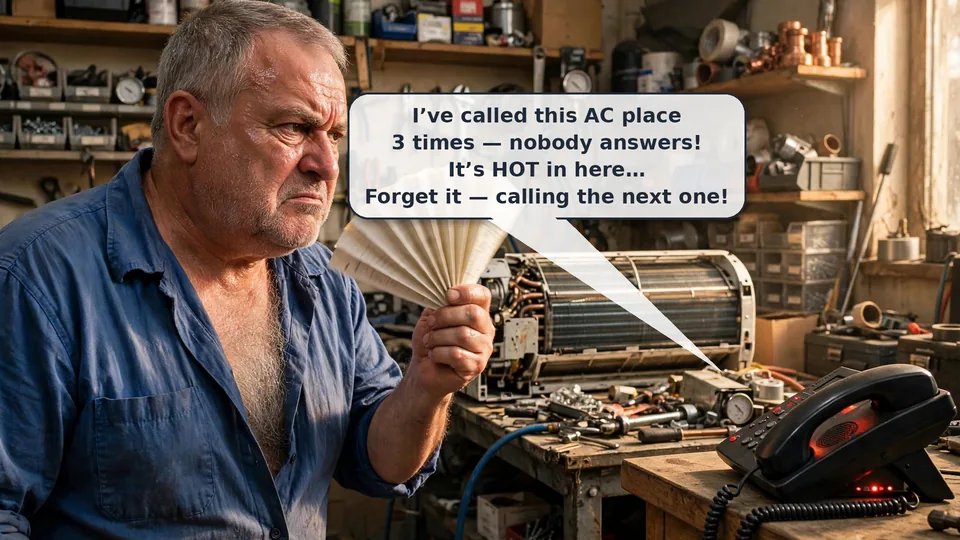
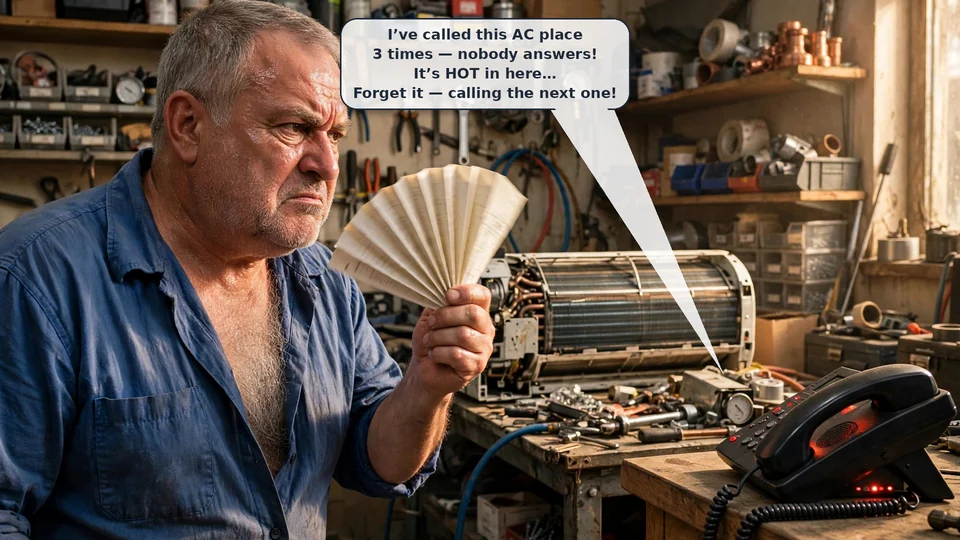
Hero slider v4: slide-1 AC bubble raised and shrunk clear of the desktop slogan
Swap the ac-guy-pain source for the re-composited master (bubble ~580x183
at x 38-66%, y 3-20% of the 2096x1080 frame, tail to the desk phone),
processed with the same crop as v3 (120px left / 56px right to 1920x1080,
plus the 960x540 small variant), no mirroring. The raised bubble top was
clipped by the band crop at the old object-position, so slide 1's
position moves 30% 20% -> 30% 5%: at desktop the full bubble and the
slogan now read with no glyph overlap; phone framing is unchanged in
effect (face + bubble in frame, slogan in the bottom strip). No other
slides, copy, or controls change.

Changed region(s): [[0.3438, 0.0296, 0.7812, 0.6815]]

diff --git a/src/components/landing/HeroSceneSlider.tsx b/src/components/landing/HeroSceneSlider.tsx
@@ -56,7 +56,7 @@ interface HeroScene {
 // any of them, so nothing reads backwards).
 const HERO_SCENES: readonly HeroScene[] = [
   { id: "plumber-pain", src: plumberPain, srcSm: plumberPainSm, position: "72% 25%", alt: "A plumber under a kitchen sink, glancing at her phone ringing on the counter" },
-  { id: "ac-guy-pain", src: acGuyPain, srcSm: acGuyPainSm, position: "30% 20%", alt: "An air-conditioning repairman fanning himself in a hot workshop while his desk phone rings, a speech bubble overhead from the frustrated caller who is about to try the next company" },
+  { id: "ac-guy-pain", src: acGuyPain, srcSm: acGuyPainSm, position: "30% 5%", alt: "An air-conditioning repairman fanning himself in a hot workshop while his desk phone rings, a speech bubble overhead from the frustrated caller who is about to try the next company" },
   { id: "roofer-pain", src: rooferPain, srcSm: rooferPainSm, position: "62% 12%", alt: "A roofer up on a roof, nail gun in hand, his phone buzzing in his tool belt" },
   { id: "manufacturer-pain-whitehair", src: manufacturerPainWhitehair, srcSm: manufacturerPainWhitehairSm, position: "30% 10%", alt: "A white-haired machine-shop owner staring at his phone in disbelief at six missed calls, buried in paper orders" },
   { id: "couple-husky", src: coupleHusky, srcSm: coupleHuskySm, position: "70% 20%", alt: "A husband-and-wife couple who own a furniture workshop, smiling together among their handmade tables" },
